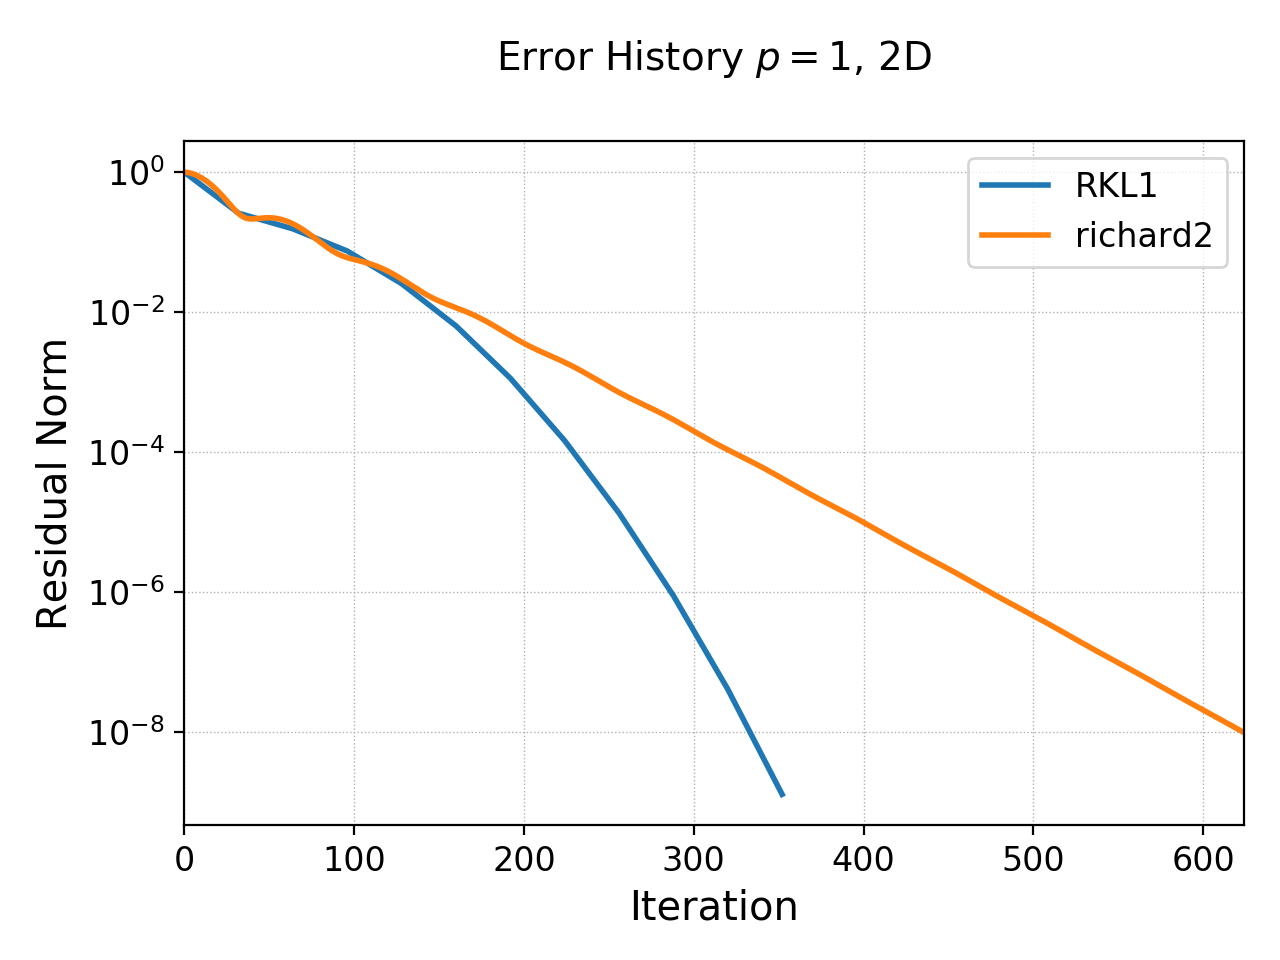
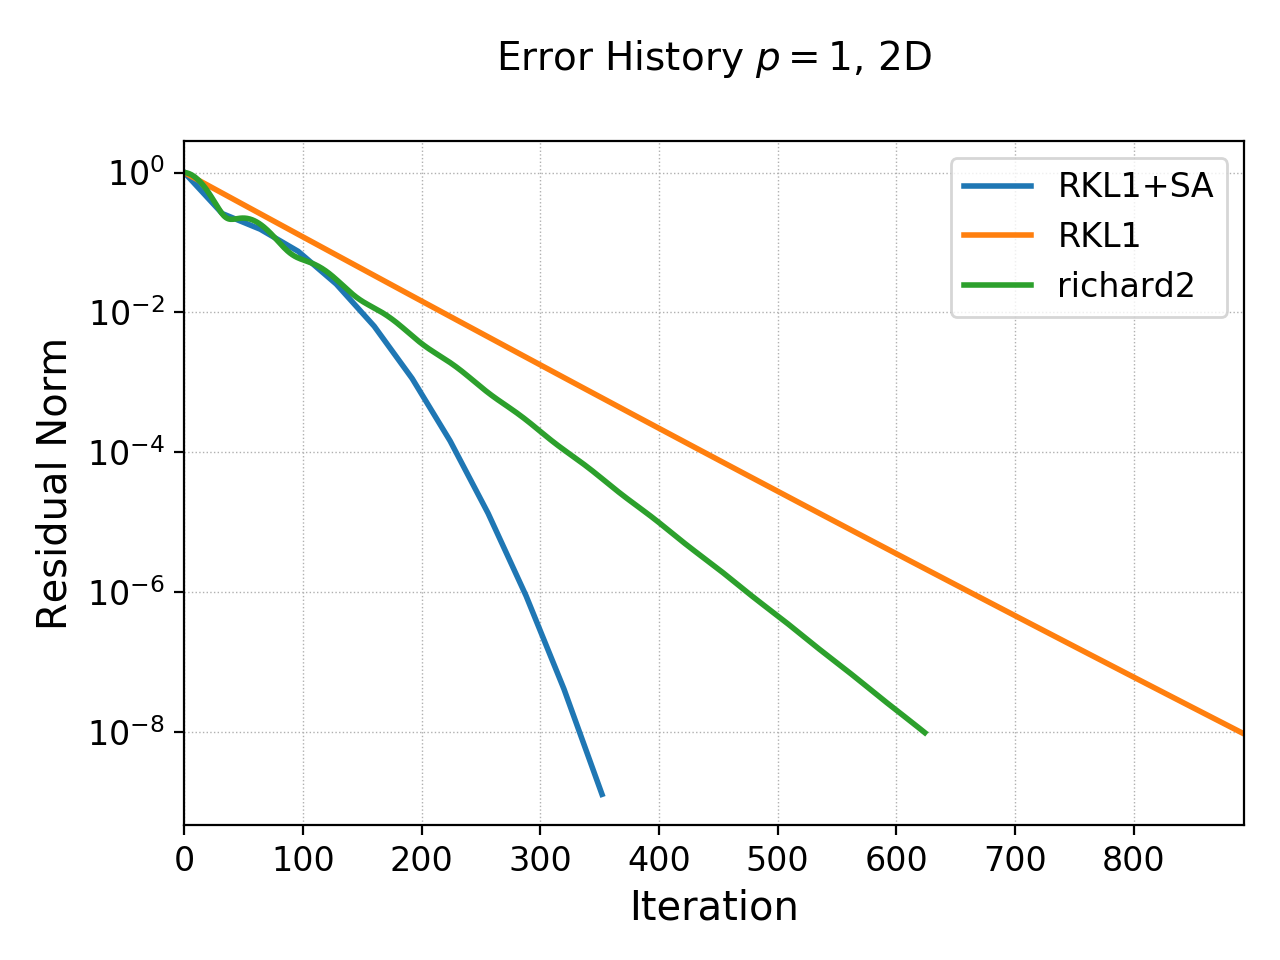
More work on IterPoisson notes

diff --git a/je/je35/je35-iter-poisson.rst b/je/je35/je35-iter-poisson.rst
@@ -340,6 +340,24 @@ system and discretization can be used. For example, density weighted
 diffusion or FEM discretization. The updater simply calls the
 appropriate equation object to compute the residual and does not use
 any equation or discretization specific information.
+
+.. note::
+
+   In the following by "RKL1" I mean the STS method without any
+   further sequence acceleration; "RKL1-SA" is the STS with the
+   sequence acceleration; "richard2" is the second order Richardson
+   iteration scheme.
+
+On Convergence of RDG Poisson solver
+------------------------------------
+
+One would expect a DG or FEM of polyOrder :math:`p` to converge as
+with :math:`p+1` order. However, as the tests below show and also as
+can be shown analytically (using Maxima) that the RDG Poisson solver
+*converges much more rapidly*, apparently as :math:`2(p+1)`. In fact,
+for :math:`p=3` case (not shown below) the round-off errors eventually
+dominate and the schemes do not converge and blow up. Somehow this
+round-off accumulation needs to be handled properly.
   
 Convergence tests in 1D
 -----------------------
@@ -405,25 +423,25 @@ that both the "RKL1" and "richard2" converge to the *same*
     - :math:`N_{RKL1}`
     - :math:`N_{rich}`
   * - 8
-    - :math:`2.38715\times 10^{-2}`
+    - :math:`2.21084\times 10^{-2}`
     - 
     - 36
     - 52
   * - 16
-    - :math:`2.54502\times 10^{-3}`
-    - 3.23
-    - 91
-    - 100
+    - :math:`1.53035\times 10^{-3}`
+    - 3.85
+    - 104
+    - 101
   * - 32
-    - :math:`2.99617\times 10^{-4}`
-    - 3.1
-    - 156
-    - 197
+    - :math:`9.84246\times 10^{-5}`
+    - 3.96
+    - 169
+    - 198
   * - 64
-    - :math:`3.68094\times10^{-5}`
-    - 3.0
-    - 300
-    - 394
+    - :math:`6.19711\times10^{-6}`
+    - 3.99
+    - 325
+    - 395
 
 Clearly, both the "RKL1" and "richard2" schemes converge linear with
 the grid size and attain a 3rd order convergence error. Note that a
@@ -436,11 +454,11 @@ iteration for the :math:`64` cell case.
   :align: center
 
   History of residual norm for :math:`p=1`, 1D :math:`64` cell case
-  for "RKL1" (blue) and "richard2" (orange) schemes. Note the
-  exponential decay in errors, with the "RKL1" further converging
-  faster due to the sequence acceleration. The "richard2" scheme has
-  some oscillatory mode (as can be seen from the dispersion relation
-  also).
+  for "RKL1+SA" (blue), "richard2" (green) and "RKL1" (orange)
+  schemes. Note the exponential decay in errors, with the "RKL1+SA"
+  further converging faster due to the sequence acceleration. The
+  "richard2" scheme has some oscillatory mode (as can be seen from the
+  dispersion relation also).
 
 The convergence of the :math:`p=2` scheme is shown in the following
 table.
@@ -456,36 +474,36 @@ table.
     - :math:`N_{RKL1}`
     - :math:`N_{rich}`
   * - 8
-    - :math:`1.91262\times 10^{-3}`
+    - :math:`3.35174\times 10^{-4}`
     - 
-    - 50
-    - 84
+    - 55
+    - 85
   * - 16
-    - :math:`1.16559\times 10^{-4}`
-    - 4
-    - 90
-    - 165
+    - :math:`5.79245\times 10^{-6}`
+    - 5.85
+    - 100
+    - 166
   * - 32
-    - :math:`7.18317\times 10^{-6}`
-    - 4
-    - 162
-    - 328
+    - :math:`9.25562\times 10^{-8}`
+    - 5.97
+    - 198
+    - 412
   * - 64
-    - :math:`4.4714\times 10^{-7}`
-    - 4
-    - 333
-    - 741
+    - :math:`1.45406\times 10^{-9}`
+    - 5.99
+    - 444
+    - 997
 
 .. figure:: p2-1D-errHist.png
   :width: 100%
   :align: center
 
   History of residual norm for :math:`p=2`, 1D :math:`64` cell case
-  for "RKL1" (blue) and "richard2" (orange) schemes. Note the
-  exponential decay in errors, with the "RKL1" further converging
-  faster due to the sequence acceleration. The "richard2" scheme has
-  some oscillatory mode (as can be seen from the dispersion relation
-  also).
+  for "RKL1+SA" (blue), "richard2" (green) and "RKL1" (orange)
+  schemes. Note the exponential decay in errors, with the "RKL1+SA"
+  further converging faster due to the sequence acceleration. The
+  "richard2" scheme has some oscillatory mode (as can be seen from the
+  dispersion relation also).
 
 Convergence tests in 2D
 -----------------------
@@ -550,36 +568,36 @@ order and number of iterations to converge to a residual norm of
     - :math:`N_{RKL1}`
     - :math:`N_{rich}`
   * - :math:`8\times 8`
-    - :math:`1.42428\times 10^{-2}`
+    - :math:`1.31167\times 10^{-2}`
     - 
-    - 40
-    - 80
-  * - :math:`16\times 16`
-    - :math:`1.5217\times 10^{-3}`
-    - 3.23
+    - 44
     - 81
-    - 156
+  * - :math:`16\times 16`
+    - :math:`9.07424\times 10^{-4}`
+    - 3.85
+    - 90
+    - 157
   * - :math:`32\times 32`
-    - :math:`1.79333 \times 10^{-4}`
-    - 3.1
-    - 153
-    - 311
+    - :math:`5.8352 \times 10^{-5}`
+    - 3.96
+    - 170
+    - 312
   * - :math:`64\times 64`
-    - :math:`2.20389\times10^{-5}`
-    - 3.0
-    - 320
-    - 623
+    - :math:`3.67363\times10^{-6}`
+    - 3.99
+    - 352
+    - 624
 
 .. figure:: p1-2D-errHist.png
   :width: 100%
   :align: center
 
   History of residual norm for :math:`p=1`, 2D :math:`64\times 64`
-  cell case for "RKL1" (blue) and "richard2" (orange) schemes. Note
-  the exponential decay in errors, with the "RKL1" further converging
-  faster due to the sequence acceleration. The "richard2" scheme has
-  some oscillatory mode (as can be seen from the dispersion relation
-  also).
+  cell case for "RKL1+SA" (blue), "richard2" (green) and "RKL1"
+  (orange) schemes. Note the exponential decay in errors, with the
+  "RKL1+SA" further converging faster due to the sequence
+  acceleration. The "richard2" scheme has some oscillatory mode (as
+  can be seen from the dispersion relation also).
 
 .. list-table:: Poisson solver convergence for 2D, :math:`p=2`
 		periodic BCs
@@ -592,36 +610,36 @@ order and number of iterations to converge to a residual norm of
     - :math:`N_{RKL1}`
     - :math:`N_{rich}`
   * - :math:`8\times 8`
-    - :math:`1.13367\times 10^{-3}`
+    - :math:`1.98078\times 10^{-4}`
     - 
-    - 88
-    - 131
+    - 96
+    - 132
   * - :math:`16\times 16`
-    - :math:`6.90935\times 10^{-5}`
-    - 4.0
-    - 117
-    - 260
+    - :math:`3.42286\times 10^{-6}`
+    - 5.85
+    - 130
+    - 261
   * - :math:`32\times 32`
-    - :math:`4.25829 \times 10^{-6}`
-    - 4.0
-    - 225
-    - 519
+    - :math:`5.47957 \times 10^{-8}`
+    - 5.96
+    - 275
+    - 642
   * - :math:`64\times 64`
-    - :math:`2.67645\times10^{-7}`
-    - 4.0
-    - 450
-    - 1038
+    - :math:`8.59271\times10^{-10}`
+    - 5.99
+    - 600
+    - 1406
       
 .. figure:: p2-2D-errHist.png
   :width: 100%
   :align: center
 
   History of residual norm for :math:`p=2`, 2D :math:`64\times 64`
-  cell case for "RKL1" (blue) and "richard2" (orange) schemes. Note
-  the exponential decay in errors, with the "RKL1" further converging
-  faster due to the sequence acceleration. The "richard2" scheme has
-  some oscillatory mode (as can be seen from the dispersion relation
-  also).
+  cell case for "RKL1+SA" (blue), "richard2" (green) and "RKL1"
+  (orange) schemes. Note the exponential decay in errors, with the
+  "RKL1+SA" further converging faster due to the sequence
+  acceleration. The "richard2" scheme has some oscillatory mode (as
+  can be seen from the dispersion relation also).
 
 In the following plot the RDG solution is compared with the exact
 solution for the :math:`p=2` case, showing the accuracy of the scheme
@@ -700,25 +718,25 @@ order and number of iterations to converge to a residual norm of
     - :math:`N_{RKL1}`
     - :math:`N_{rich}`
   * - :math:`8\times 8\times 8`
-    - :math:`1.4831\times 10^{-1}`
+    - :math:`1.50795\times 10^{-1}`
     - 
+    - 42
     - 36
-    - 35
   * - :math:`16\times 16\times 16`
-    - :math:`1.53151\times 10^{-2}`
-    - 3.3
-    - 60
-    - 76
+    - :math:`1.15276\times 10^{-2}`
+    - 3.7
+    - 54
+    - 77
   * - :math:`32\times 32\times 32`
-    - :math:`1.83854 \times 10^{-3}`
-    - 3.05
-    - 110
-    - 156
+    - :math:`7.63856 \times 10^{-4}`
+    - 3.9
+    - 77
+    - 157
   * - :math:`64\times 64\times 64`
-    - :math:`2.27614\times 10^{-4}`
-    - 3.0
-    - 220
-    - 315
+    - :math:`4.84829\times 10^{-5}`
+    - 3.98
+    - 154
+    - 316
 
 .. figure:: p1-3D-errHist.png
   :width: 100%
@@ -732,7 +750,49 @@ order and number of iterations to converge to a residual norm of
   absent in 1D or 2D.
 
 Though not shown here, a similar trend is seen for :math:`p=2` 3D case
-and the scheme converges with 4th order accuracy.
+and the scheme converges with 6th order accuracy.
+
+Random source
+-------------
+
+To test if the sequence acceleration is effective simply because there
+are only a few wave modes in solutions used in the above test, I also
+tested the case in which the source is initialized randomly using the
+following code block:
+
+.. code:: lua
+
+  local initSource = Updater.ProjectOnBasis {
+     onGrid = grid,
+     basis = basis,
+     numQuad = 2*polyOrder+1,
+     evaluate = function(t, xn)
+	local x, y = xn[1], xn[2]
+	return math.random()
+     end,
+  }
+
+With this, the error history of the :math:`p=1` basis code on
+:math:`16\times 16` domain is show below for each of the three
+schemes.
+
+.. figure:: p1-1D-random-errHist.png
+  :width: 100%
+  :align: center
+
+  History of residual norm for :math:`p=1`, 2D :math:`16\times 16`
+  cell case for "RKL1-SA" (blue), "richard2" (orange) and "RKL1"
+  (orange) schemes. For this problem, the source (RHS) is initialized
+  with random noise. Even though the "RKL1-SA" and "richard2" converge
+  in about the same nunber of iterations, even in this extreme case
+  the sequence acceleration does help reduce the number of iterations
+  in about :math:`2\times` from the "RKL1" case.
+
+Note that even in this case the number of iterations scales linearly
+with the grid size. (I am not sure how to precisely initialize the
+source in a way that scaling with grid size can be properly
+studies. However, it does seem that the scaling holds in this case
+also).
 
 Some concluding notes
 ---------------------
